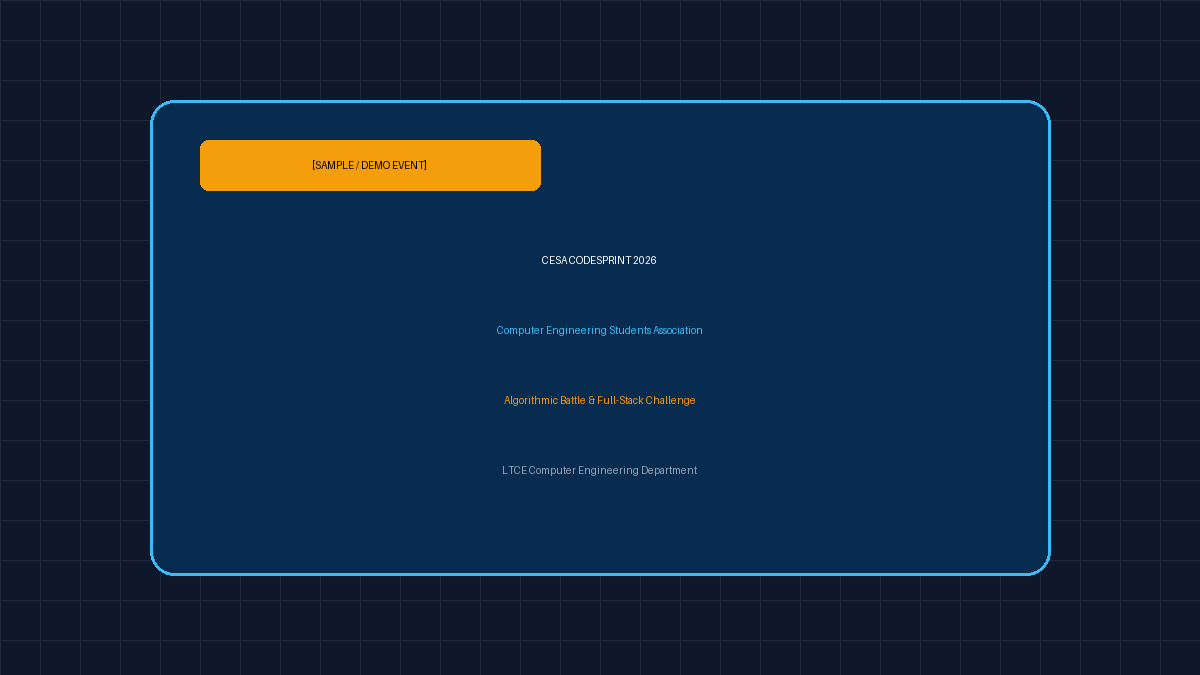
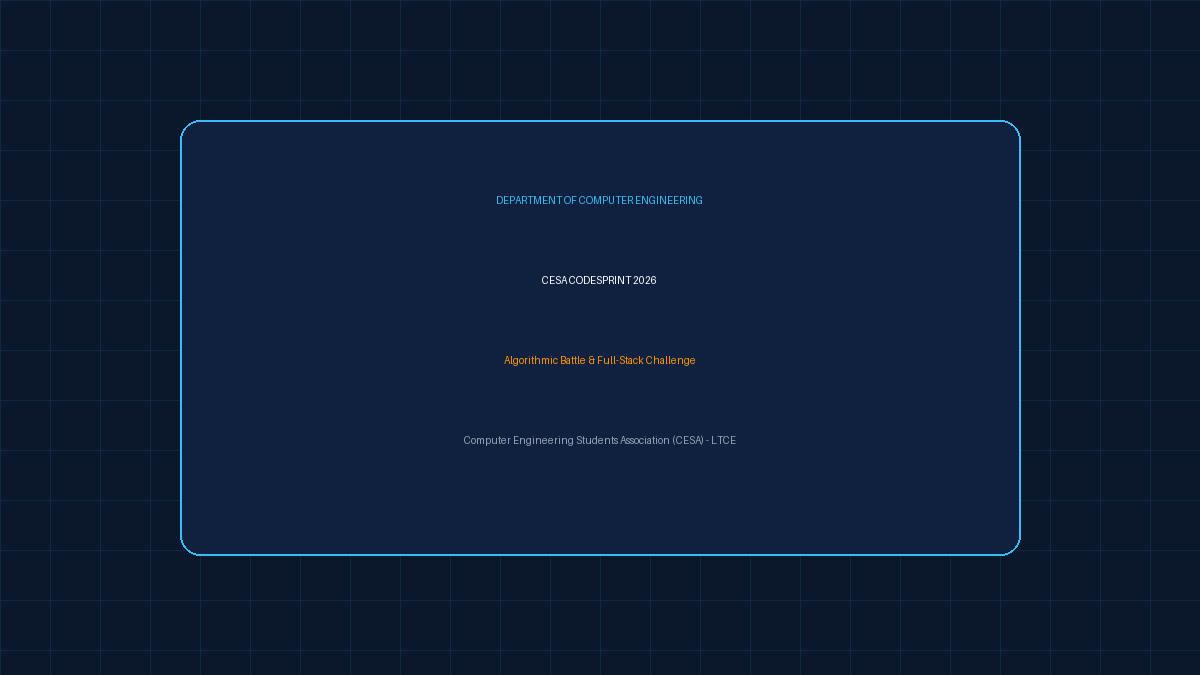
refactor: remove 10 counter badge, clean up sample & past event badges, declutter top bar

diff --git a/WebContent/css/style.css b/WebContent/css/style.css
@@ -137,12 +137,12 @@ button {
 
 /* ==========================================================================
    1. Ultra-Clean Institutional Micro Bar
-   ========================================================================== */
+    ========================================================================== */
 .inst-micro-bar {
     background-color: var(--ltce-navy);
     color: #cbd5e1;
-    font-size: 0.85rem;
-    padding: 7px 1.5rem;
+    font-size: 0.8rem;
+    padding: 6px 1.5rem;
     border-bottom: 1px solid rgba(255, 255, 255, 0.08);
 }
 
@@ -159,47 +159,21 @@ button {
 .inst-info-left {
     display: flex;
     align-items: center;
-    gap: 10px;
-    flex-wrap: wrap;
-}
-
-.inst-trust-title {
-    color: #e2e8f0;
-    font-weight: 500;
-}
-
-.inst-sep {
-    color: #64748b;
 }
 
 .inst-clg-name {
     color: #ffffff;
     font-weight: 600;
-}
-
-.inst-badge {
-    font-size: 0.725rem;
-    font-weight: 800;
-    padding: 2px 8px;
-    border-radius: var(--radius-sm);
-    letter-spacing: 0.5px;
-}
-
-.inst-badge.naac {
-    background: #ff3300;
-    color: #ffffff;
-}
-
-.inst-badge.nba {
-    background: #0284c7;
-    color: #ffffff;
+    font-size: 0.825rem;
+    letter-spacing: 0.2px;
 }
 
 .inst-link {
-    color: #f1f5f9;
-    font-weight: 700;
-    font-size: 0.85rem;
+    color: #94a3b8;
+    font-weight: 600;
+    font-size: 0.8rem;
     white-space: nowrap;
+    transition: color 0.15s ease;
 }
 
 .inst-link:hover {
@@ -215,9 +189,6 @@ button {
     .inst-bar-inner {
         justify-content: center;
     }
-    .inst-trust-title,
-    .inst-sep,
-    .inst-badge.nba,
     .inst-info-right {
         display: none;
     }
@@ -1728,57 +1699,36 @@ button {
     position: absolute;
     top: 12px;
     left: 12px;
-    background: #334155;
-    color: #ffffff;
-    font-size: 0.685rem;
-    font-weight: 800;
-    padding: 3px 8px;
-    border-radius: var(--radius-sm);
-    letter-spacing: 0.6px;
+    background: rgba(30, 41, 59, 0.88);
+    color: #f1f5f9;
+    font-size: 0.7rem;
+    font-weight: 700;
+    padding: 3px 9px;
+    border-radius: 6px;
+    letter-spacing: 0.4px;
+    text-transform: uppercase;
     z-index: 2;
-    box-shadow: 0 2px 6px rgba(0, 0, 0, 0.25);
+    box-shadow: 0 2px 6px rgba(0, 0, 0, 0.2);
+    backdrop-filter: blur(4px);
+    border: 1px solid rgba(255, 255, 255, 0.1);
 }
 
 .card-demo-badge {
     position: absolute;
     top: 12px;
     left: 12px;
-    background: #f59e0b;
-    color: #0f172a;
-    font-size: 0.685rem;
+    background: rgba(245, 158, 11, 0.92);
+    color: #1e1b4b;
+    font-size: 0.7rem;
     font-weight: 800;
-    padding: 3px 8px;
-    border-radius: var(--radius-sm);
-    letter-spacing: 0.5px;
-    text-transform: uppercase;
-    z-index: 3;
-    box-shadow: 0 2px 6px rgba(0, 0, 0, 0.25);
-    border: 1px solid #d97706;
-}
-
-.demo-watermark-overlay {
-    position: absolute;
-    inset: 0;
-    pointer-events: none;
-    display: flex;
-    align-items: center;
-    justify-content: center;
-    background: rgba(15, 23, 42, 0.15);
-    z-index: 2;
-}
-
-.demo-watermark-text {
-    transform: rotate(-12deg);
-    font-size: 1rem;
-    font-weight: 900;
-    letter-spacing: 1.5px;
-    color: #ffffff;
-    text-transform: uppercase;
-    border: 2px dashed rgba(255, 255, 255, 0.85);
-    padding: 4px 12px;
+    padding: 3px 9px;
     border-radius: 6px;
-    background: rgba(15, 23, 42, 0.6);
-    box-shadow: 0 4px 12px rgba(0,0,0,0.3);
+    letter-spacing: 0.3px;
+    text-transform: uppercase;
+    z-index: 2;
+    box-shadow: 0 2px 6px rgba(0, 0, 0, 0.2);
+    backdrop-filter: blur(4px);
+    border: 1px solid rgba(255, 255, 255, 0.2);
 }
 
 .demo-pill-tag {
@@ -1789,10 +1739,10 @@ button {
     color: #92400e;
     border: 1px solid #fde68a;
     font-size: 0.725rem;
-    font-weight: 800;
+    font-weight: 700;
     padding: 2px 8px;
     border-radius: 12px;
-    letter-spacing: 0.4px;
+    letter-spacing: 0.3px;
     text-transform: uppercase;
 }
 

diff --git a/src/util/DBConnection.java b/src/util/DBConnection.java
@@ -174,10 +174,10 @@ public class DBConnection {
                     + "'Compete with the sharpest minds at LTCE to represent the college at the national Smart India Hackathon 2026. Teams will be evaluated on problem statement alignment, technical viability, architectural elegance, and feasibility.', "
                     + "'Hackathon', 'All Departments', 'SE, TE, BE', '2026-10-18', '9:00 AM', '6:00 PM', 'Central Computing Facility (CCF)', 'LTCE Innovation Cell', 'innovation@ltce.in | +91 97654 32109', '2026-10-16', 60, 'Team of 6 members with mandatory 1 female participant', 'sih_hackathon.png', 'Published', 1), "
 
-                    + "(4, '[DEMO / SAMPLE EVENT] CESA CodeSprint 2026: Algorithmic Battle', "
-                    + "'[DEMO / SAMPLE EVENT] Computer Engineering Students Association (CESA) presents the departmental flagship coding battle. Solve DSA problems, build web prototypes.', "
-                    + "'[DEMO / SAMPLE EVENT - FOR TESTING & PREVIEW ONLY]\\n\\nExclusively organized by CESA (Computer Engineering Students Association). Features 2 rounds: Round 1 Competitive Coding on custom problem sets, Round 2 6-hour Rapid App Prototype Sprint. Certificates and trophies for Top 3 performers.', "
-                    + "'Competition', 'Computer Engineering', 'SE, TE, BE', '2026-11-04', '10:00 AM', '5:00 PM', 'Computer Center Labs 1 & 2', 'CESA LTCE', 'cesa@ltce.in | +91 98333 44556', '2026-11-02', 150, 'Computer Engineering department students only', 'cesa_codesprint.png', 'Published', 1);");
+                    + "(4, 'CESA CodeSprint 2026: Algorithmic Battle', "
+                    + "'Computer Engineering Students Association (CESA) presents the departmental flagship coding battle. Solve DSA problems, build web prototypes.', "
+                    + "'[Sample Preview Event]\\n\\nExclusively organized by CESA (Computer Engineering Students Association). Features 2 rounds: Round 1 Competitive Coding on custom problem sets, Round 2 6-hour Rapid App Prototype Sprint. Certificates and trophies for Top 3 performers.', "
+                    + "'Competition', 'Computer Engineering', 'SE, TE, BE', '2026-11-04', '10:00 AM', '5:00 PM', 'Computer Center Labs 1 & 2', 'CESA LTCE', 'cesa@ltce.in | +91 98333 44556', '2026-11-02', 150, 'Computer Engineering department students only', 'cesa_codesprint.png', 'Demo', 1);");
 
             // Seed sample registrations
             stmt.executeUpdate("MERGE INTO registrations (id, user_id, event_id, status) KEY(id) VALUES (1, 2, 1, 'CONFIRMED'), (2, 2, 2, 'CONFIRMED');");

diff --git a/src/dao/EventDAO.java b/src/dao/EventDAO.java
@@ -80,7 +80,7 @@ public class EventDAO {
             sql.append(", (SELECT COUNT(*) FROM registrations r WHERE r.event_id = e.id AND r.user_id = ? AND r.status != 'CANCELLED') AS is_registered ");
             sql.append(", (SELECT COUNT(*) FROM saved_events s WHERE s.event_id = e.id AND s.user_id = ?) AS is_saved ");
         }
-        sql.append("FROM events e WHERE e.status IN ('Published', 'Completed') ");
+        sql.append("FROM events e WHERE e.status IN ('Published', 'Completed', 'Demo') ");
 
         List<Object> params = new ArrayList<>();
         if (currentUserId != null) {
